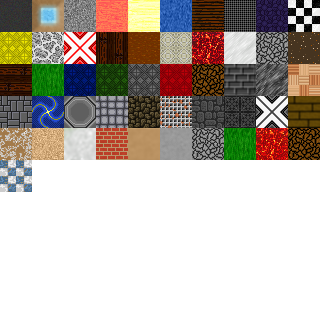
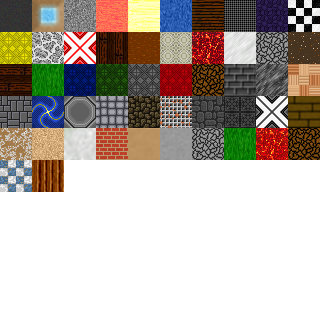
item usages can change floor

Changed region(s): [[0.0938, 0.5, 0.2188, 0.625]]

diff --git a/Server/GridiaServer/src/main/java/hoten/gridia/serving/ConnectionToGridiaClientHandler.java b/Server/GridiaServer/src/main/java/hoten/gridia/serving/ConnectionToGridiaClientHandler.java
@@ -352,6 +352,7 @@ public class ConnectionToGridiaClientHandler extends SocketHandler {
         _server.sendToAll(_messageBuilder.chat(player.creature.name + " says: " + msg, player.creature.location));
     }
 
+    // :(
     private void ExecuteItemUse(
             ItemUse use,
             ItemInstance tool,
@@ -398,6 +399,10 @@ public class ConnectionToGridiaClientHandler extends SocketHandler {
             if (use.animation != 0) {
                 Coord loc = _server.tileMap.getCoordFromIndex(destIndex);
                 _server.sendToClientsWithAreaLoaded(_messageBuilder.animation(use.animation, loc), destIndex);
+            }
+            if (use.surfaceGround != -1) {
+                Coord loc = _server.tileMap.getCoordFromIndex(destIndex);
+                _server.changeFloor(loc, use.surfaceGround);
             }
         }
 

diff --git a/Server/GridiaServer/src/main/java/hoten/gridia/content/ItemUse.java b/Server/GridiaServer/src/main/java/hoten/gridia/content/ItemUse.java
@@ -8,6 +8,7 @@ public class ItemUse {
 
     public String name, successMessage, failureMessage;
     public int tool, focus, focusQuantityConsumed, animation, successTool;
+    public int surfaceGround = -1;
     public List<Integer> products = new ArrayList();
     public List<Integer> quantities = new ArrayList();
 
